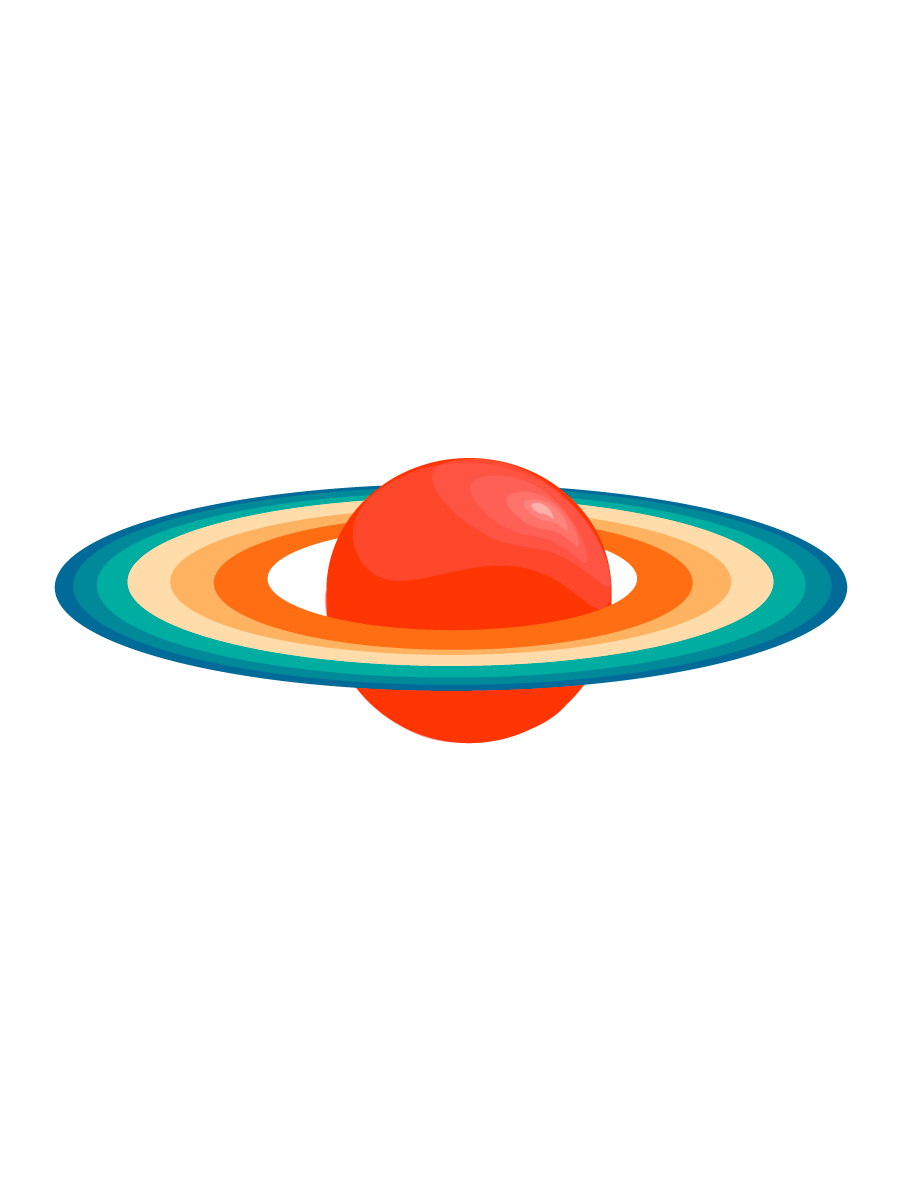
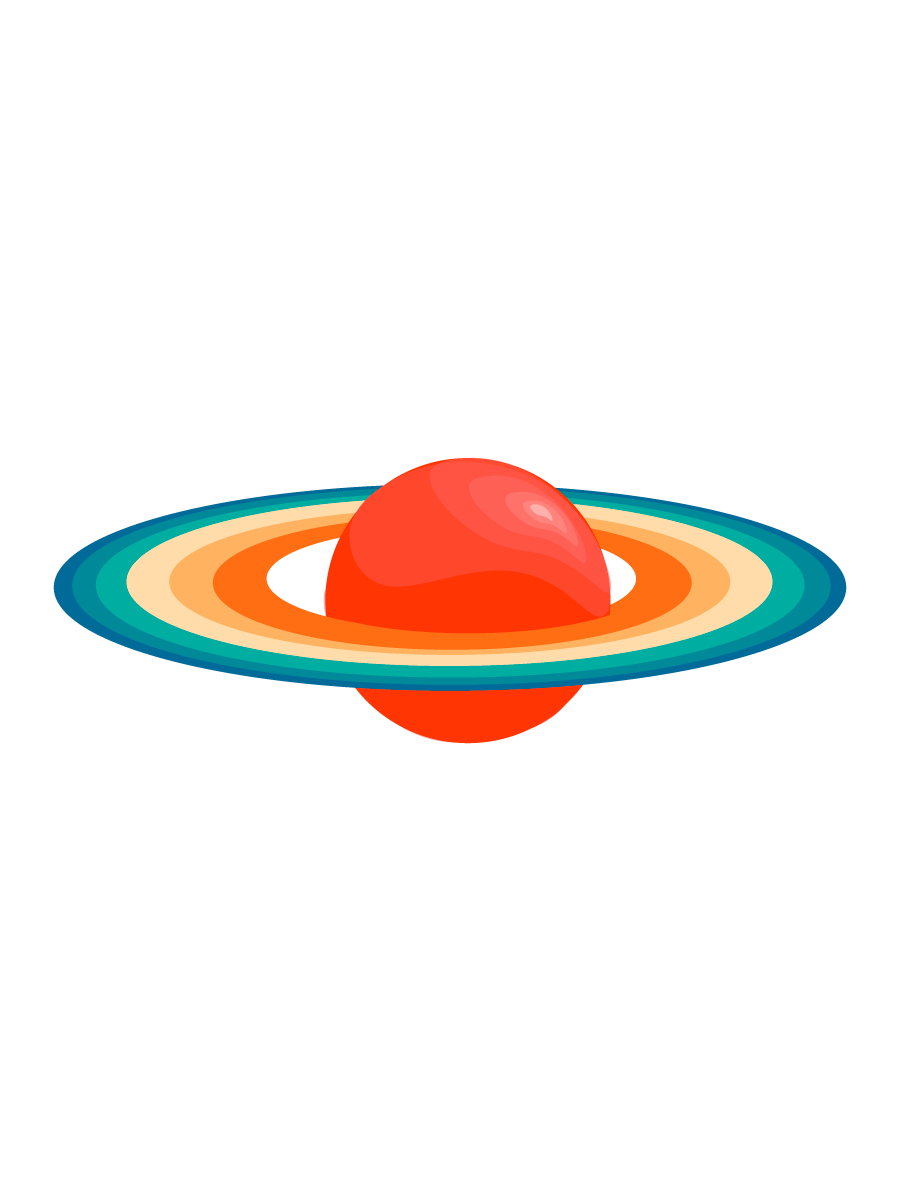
Versión corregida_02

diff --git a/main.js b/main.js
@@ -75,7 +75,7 @@ var layer_list = [
   {
     image: mask,
     src: "./images/layer_6_1.png",
-    z_index: -0.4,
+    z_index: -0.6,
     position: { x: 0, y: 0 },
     blend: null,
     opacity: 1,
